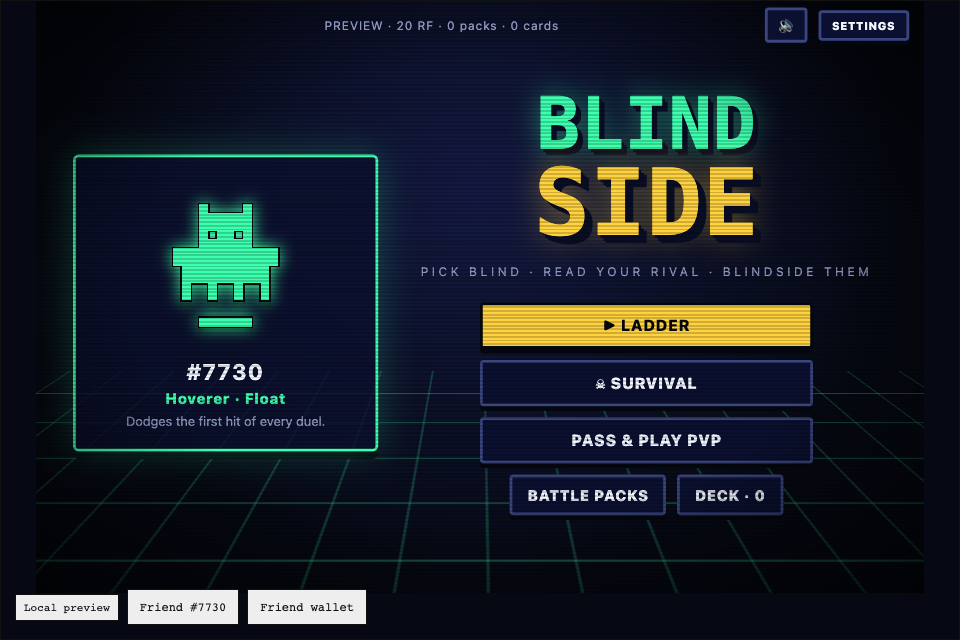
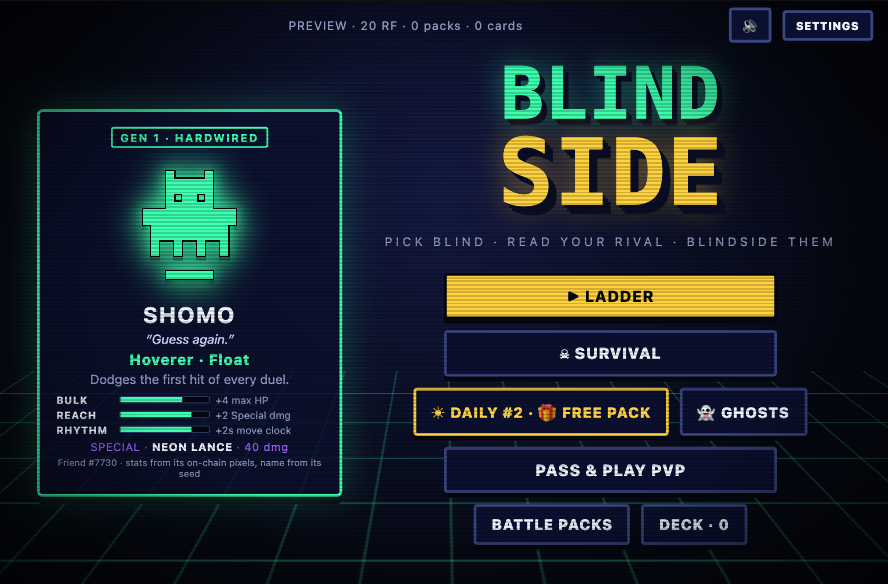
BLINDSIDE: FriendSDK v0.1.3, Friend identity, ghosts, Daily, SHADOW boss

diff --git a/submissions/blindside/README.md b/submissions/blindside/README.md
@@ -1,12 +1,12 @@
 # BLINDSIDE: pick blind, read your rival, blindside them
 
-A turn-based Rare Friends **mind-game fighter**: your own Generations NFT battles with **simultaneous hidden moves**, its on-chain family grants a fighting trait, and ability cards come from simulated-RF Battle Packs.
+A turn-based Rare Friends **mind-game fighter**: your own Generations NFT battles with **simultaneous hidden moves**. Its seed, pixels, generation and family make it a fighter unlike any other Friend, you can post a **ghost** of your playstyle for anyone to fight, and ability cards come from simulated-RF Battle Packs.
 
-**Builder:** Siraj · X [@sirajsoft](https://x.com/sirajsoft) · **Category:** Character Spotlight (also Economy Potential) · **SDK:** FriendSDK v0.1.2
+**Builder:** Siraj · X [@sirajsoft](https://x.com/sirajsoft) · **Category:** Character Spotlight (also Economy Potential) · **SDK:** FriendSDK v0.1.3
 
 - **▶ Playable preview:** https://siraj-hm.github.io/blindside/
 - **🎬 Trailers:** [16:9](https://github.com/Siraj-HM/blindside/releases/download/vibeathon-v1/blindside-trailer.mp4) · [9:16](https://github.com/Siraj-HM/blindside/releases/download/vibeathon-v1/blindside-trailer-x-portrait.mp4)
-- **Source:** [Siraj-HM/blindside · games/blindside](https://github.com/Siraj-HM/blindside/tree/ad1ca16b00fc6df81e0af8a010e3cf3c6bf8b8d2/games/blindside) · [Game rules (game.json)](https://github.com/Siraj-HM/blindside/blob/ad1ca16b00fc6df81e0af8a010e3cf3c6bf8b8d2/games/blindside/game.json)
+- **Source:** [Siraj-HM/blindside · games/blindside](https://github.com/Siraj-HM/blindside/tree/c1151091914862c9303790ea92edfec94d6b6f9d/games/blindside) · [Game rules (game.json)](https://github.com/Siraj-HM/blindside/blob/c1151091914862c9303790ea92edfec94d6b6f9d/games/blindside/game.json)
 - **Requirements:** a browser wallet on **Robinhood mainnet (4663)** holding a hardwired Rare Friends Generations NFT (**generation ≥ 1**). The SDK runtime connects the wallet and verifies ownership; play needs no RF funding, approval or transaction signature.
 
 ![BLINDSIDE hub](images/hub.png)
@@ -17,17 +17,20 @@ A turn-based Rare Friends **mind-game fighter**: your own Generations NFT battle
 - **A counter triangle with a resource.** Guard beats Strike, Charge beats Guard, Strike beats Charge, and Charge builds the energy for a 38-damage Special.
 - **Rivals with personalities.** Each ladder rival plays a distinct style with a readable weakness: PIP the Turtle hides behind Guard, DRIFT the Mimic copies you, GOO the Patient punishes greed, GLINT the Gambler hoards energy, BONES the Berserker never blocks, and TITAN the Warlord quakes through your guard.
 - **An AI that learns you.** Later rivals track your recent habits and simulate every response through the real rules engine to counter them.
-- **Your Friend's family is a fighting style.** The game reads the family from the canonical artwork registry and grants one of nine traits.
-- **Pass & play PvP** on one device, a **Survival** mode where HP carries between waves, and a 5-rival **ladder** ending in the TITAN boss.
+- **Your Friend fights like itself.** Its registry seed names it and gives it a catchphrase and a named Special ("Neon Lance"); its canonical pixels set three small stats (BULK, REACH, RHYTHM); its generation sets a rank and aura; its family grants one of nine traits. Deterministic: the same Friend is always the same fighter.
+- **Beat My Ghost: PvP between strangers without a server.** Your habits compress into a 12-character code (`BLND-ANEM-JNR5-9FXZ`). Post it and anyone can fight an AI that plays exactly like you. The code holds only a family and move frequencies, never a token ID or wallet.
+- **Your own Friend is the final boss.** Beat TITAN and a secret SHADOW of your Friend appears, playing every habit you showed on the way up. To win, you have to break your own patterns.
+- **Daily Blindside:** the same three rivals for every player each day, one shot each, a Wordle-style result to share, and a free Daily Pack for finishing.
+- **Pass & play PvP** on one device and a **Survival** mode where HP carries between waves.
 
 ## Run it
 
-Node.js 22+, from the source repository (a FriendSDK v0.1.2 fork):
+Node.js 22+, from the source repository (a FriendSDK v0.1.3 fork):
 
 ```sh
 git clone https://github.com/Siraj-HM/blindside.git
 cd blindside
-git checkout ad1ca16b00fc6df81e0af8a010e3cf3c6bf8b8d2
+git checkout c1151091914862c9303790ea92edfec94d6b6f9d
 npm ci
 npm run build
 npm run dev:game -- games/blindside
@@ -50,16 +53,36 @@ Click or tap, or use keys `1–4` for moves, `Q W E R T` to arm a card, `P` to p
 
 ![Special into Guard: the shield cracks](images/duel-special-vs-guard.png)
 
+### Your Friend fights like itself
+
+| From its on-chain… | You get |
+|---|---|
+| **Seed** (`seedOf`) | A nickname, a victory catchphrase and a named Special |
+| **Pixels** (canonical 16×16 art) | **BULK** (lit pixels): +1–6 max HP · **REACH** (body width): +0–3 Special damage · **RHYTHM** (idle-animation movement): +0–2 s on the move clock |
+| **Generation** | A rank and aura: GEN 1 HARDWIRED, GEN 2 VETERAN, GEN 3 ELITE, GEN 4+ LEGEND (a display-only public read; eligibility is checked only by the SDK runtime) |
+| **Family** | One of nine traits (below) |
+
+Stat bonuses are small by design and switched off in PvP. Unit tests check that identities are deterministic, bounded and varied.
+
+![Hub: your Friend's name, catchphrase, rank, pixel stats and named Special](images/hub.png)
+
 **Family traits:** Skeleton (Strikes +3) · Mask (peek at the AI's move once per duel) · Family (start with 1 energy) · Cellular (heal 3 on Guard) · Asymmetry (25% double Strike) · Hoverer (dodge the first hit) · Colossus (130 HP) · Sparkling (Special costs 2) · Hollow (blocked Strikes reflect +6).
 
 **Modes**
 - **Ladder:** PIP (Turtle), DRIFT (Mimic), GOO (Patient), GLINT (Gambler), BONES (Berserker), then **TITAN** the Warlord (120 HP, telegraphed Quakes through Guard every third turn). Each rival card shows its personality and a tip for beating it. Early rivals play on instinct; later ones read you.
+- **Secret boss: SHADOW.** After TITAN, your own Friend turned: same family trait and Special, +10 HP, replaying the habits recorded during your climb (sharpened by the rules engine 40% of the time). Simulated players beat it about a third of the time.
+- **Daily Blindside:** three rivals seeded by the UTC date, one attempt each (leaving counts as a loss), then a share line such as `BLINDSIDE Daily #2 · 2/3 🟩🟩🟥`. Finishing all three rips a free Daily Pack (see Rules and rewards).
+- **Beat My Ghost:** after 12 moves your ghost code appears with your top tells ("After a Charge you Strike 80% of the time"). Enter any code to fight that player's ghost; a checksum rejects typos. Beat one and you get a brag line to post with your own code.
 - **Survival:** endless waves; **HP never resets**, each win heals +20 (+40 after a boss), TITAN every 5th wave. One loss ends the run; best run shown on the hub.
 - **Pass & Play PvP:** Player 1 is the verified Friend, Player 2 picks a rival avatar; picks are made in turn behind a hand-over screen, then revealed together. Cards are off in PvP.
 
 **Combat feedback:** a hex shield on Guard that flashes on a block, cracks under a halved Special and shatters on a **GUARD BREAK** (Quick Jab, Supernova or Quake); charge auras that fizzle when interrupted; lunges, slashes, beams, quake shockwaves; a K.O. sequence; procedural sound effects.
 
 ![Guard, block, crack, guard break, charge, fizzle](images/combat-effects.png)
+
+![Daily Blindside results and share line](images/daily.png) ![Beat My Ghost: your code and tells](images/ghosts.png)
+
+![The secret SHADOW rung after TITAN](images/shadow-ladder.png) ![Fighting your own SHADOW](images/shadow-duel.png)
 
 ## Rules and rewards
 
@@ -75,6 +98,8 @@ Click or tap, or use keys `1–4` for moves, `Q W E R T` to arm a card, `P` to p
 
 Expected reward: **0.88 RF per pack**. Each purchased or pending pack reserves the maximum 5 RF prize; kept cards retain their fixed RF backing. Preview balances and progress reset when the runtime session ends.
 
+**Daily Pack (free):** finishing the Daily rips one bonus card drawn with the same odds. It plays exactly like a pack card but has **no RF value and cannot be sold**, so it creates no RF liability and never pays RF. Without a save API it is limited per session, which is harmless because it carries no value.
+
 ![Battle Pack reveal](images/battle-pack.png) ![Survival wave cleared](images/survival.png)
 
 ## Checks, credits and limitations
@@ -82,7 +107,7 @@ Expected reward: **0.88 RF per pack**. Each purchased or pending pack reserves t
 From the repository root:
 
 ```sh
-node --test games/blindside/engine.test.ts    # 22 rules, AI and personality tests
+node --test games/blindside/engine.test.ts    # 26 rules, AI, personality, ghost-code and identity tests
 npx friendsdk check games/blindside           # game validation
 npx friendsdk test games/blindside            # browser smoke test (also --width 360)
 node scripts/test-blindside.mjs               # ladder duel, pack buy/open/keep, card tray, PvP round
@@ -90,10 +115,12 @@ node scripts/test-survival.mjs                # HP carry-over, heals, rivals att
 node scripts/test-survival-deep.mjs           # run to the wave-5 TITAN boss, Quakes, run-over path
 node scripts/test-timer-critical.mjs          # critical HP and move-clock timeout
 node scripts/test-fx-duel.mjs                 # combat effects in PvP
+node scripts/test-daily-ghost.mjs             # Daily gauntlet, share line, free pack; ghost code, bad code, ghost fight
+node scripts/test-shadow.mjs                  # full ladder run through TITAN and the SHADOW boss
 ```
 
-All pass: 22 unit tests; `friendsdk check` valid (expected reward 0.88 RF, maximum 5 RF); desktop and 360 px browser checks; and the scripted playthroughs above. Difficulty was tuned by simulation (the boss is beatable and Survival reaches the first TITAN for a solid player). Browser tests use the SDK's mocked wallet/RPC; a real-wallet playthrough (Friend discovery, ownership gate, pack purchase) was also completed.
+All pass on FriendSDK v0.1.3: 26 unit tests; `friendsdk check` valid (expected reward 0.88 RF, maximum 5 RF); desktop and 360 px browser checks; and the scripted playthroughs above. Difficulty was tuned by simulation (the boss is beatable and Survival reaches the first TITAN for a solid player). Browser tests use the SDK's mocked wallet/RPC; a real-wallet playthrough (Friend discovery, ownership gate, pack purchase) was also completed.
 
 Credits: the selected Friend's canonical sprite and family come from the SDK sprite reader; rival sprites are canonical registry artwork read with `frames(familyId, seed)` and bundled with their source recorded in `rivals.json` (see the SDK's NOTICE.md). UI and pack sounds use the SDK sound kit; combat effects are synthesized with Web Audio (no audio files). The trailer soundtrack is procedurally generated. Built with AI assistance (Claude Code).
 
-Limitations: progress is per session (the SDK has no save API); online matchmaking PvP would need a separately reviewed multiplayer service, since the sandbox only reaches the game host and the Robinhood RPC; no live contracts, trading, wearables or creator fees. Token Activity metrics are not claimed. Production publication needs separate Rare Friends review.
+Limitations: progress is per session (the SDK has no save API), so ghost codes and Daily share lines are how progress travels; online matchmaking PvP would need a separately reviewed multiplayer service, since the sandbox only reaches the game host and the Robinhood RPC; no live contracts, trading, wearables or creator fees. Token Activity metrics are not claimed. Production publication needs separate Rare Friends review.
